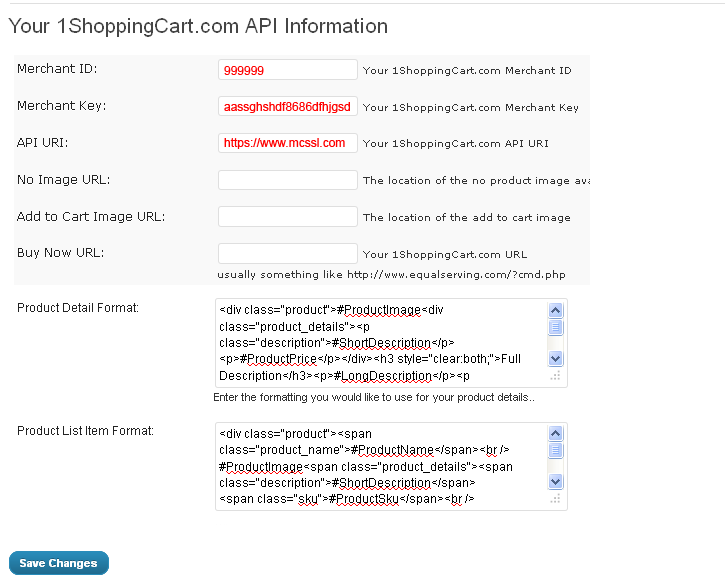
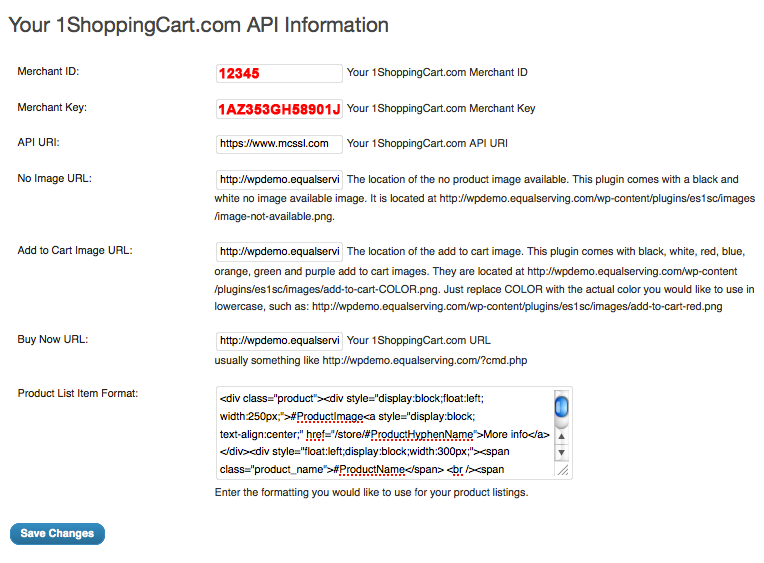
Fix typos and provide more help on settings page.
git-svn-id: https://plugins.svn.wordpress.org/wordpress-plugin-for-1shoppingcart/trunk@482700 b8457f37-d9ea-0310-8a92-e5e31aec5664

diff --git a/es1sc-free.php b/es1sc-free.php
@@ -3,7 +3,7 @@
 * Plugin Name: ES 1ShoppingCart
 * Plugin URI: http://www.equalserving.com/products-page/wordpress-plugin/free-wordpress-plugin-for-1shoppingcart/
 * Description: Using shortcodes, you can easily display product details from your 1ShoppingCart.com product catalog on pages or posts within your WordPress site. All that needs to be entered on the page or post is the title and the shortcut code [es1sc_prodlist]. The shortcode [es1sc_prodlist] without any additional arguments will display your entire active product catalog. You can limit the list to specific products by adding the argument prd_ids to the shortcode such as - [es1sc_prodlist prd_ids="8644152,8644145,8580674,8569588,8569508,8361626"].
-* Version: 0.1
+* Version: 0.2
 * Author: EqualServing.com
 * Author URI: http://www.equalserving.com/
 * Donate link: https://www.paypal.com/cgi-bin/webscr?cmd=_donations&business=H8KWRPTET2SK2&lc=US&item_name=Free%20Wordpress%20Plugin%20for%201ShoppingCart&currency_code=USD&bn=PP%2dDonationsBF%3abtn_donateCC_LG%2egif%3aNonHosted
@@ -14,7 +14,7 @@
 *
 */
 
-define( 'ES1SCVERSION', '0.1' );
+define( 'ES1SCVERSION', '0.2' );
 
 require(plugin_dir_path( __FILE__ ) .'include/OneShopAPI.php');
 $merchantId = get_option('es1sc_merchant_id');
@@ -72,6 +72,10 @@ function es1sc_plugin_options() {
 	echo '<div class="wrap">';
 	echo '<h2>Your 1ShoppingCart.com API Information</h2>';
 
+	echo '<div class="postbox-container" style="width:70%;">';
+	echo '   <div class="metabox-holder">';
+	echo '      <div class="meta-box-sortables">';
+
 	echo '<form name="updatesettings" id="updatesettings" method="post" action="'. $_SERVER['REQUEST_URI']. '">';
     settings_fields( 'es1sc-settings' );
 	echo '	<table class="form-table">';
@@ -96,13 +100,13 @@ function es1sc_plugin_options() {
 			"type" => "text"
 		),
 		array("name" => __('No Image URL','thematic'),
-			"desc" => __('The location of the no product image available','thematic'),
+			"desc" => __('The location of the no product image available. This plugin comes with a black and white no image available image. It is located at '.plugin_dir_url(__FILE__).'images/image-not-available.png.','thematic'),
 			"id" => "es1sc_no_image",
 			"std" => "999999",
 			"type" => "text"
 		),
 		array("name" => __('Add to Cart Image URL','thematic'),
-			"desc" => __('The location of the add to cart image','thematic'),
+			"desc" => __('The location of the add to cart image. This plugin comes with black, white, red, blue, orange, green and purple add to cart images. They are located at '.plugin_dir_url(__FILE__).'images/add-to-cart-COLOR.png. Just replace COLOR with the actual color you would like to use in lowercase, such as: '.plugin_dir_url(__FILE__).'images/add-to-cart-red.png','thematic'),
 			"id" => "es1sc_cart_image",
 			"std" => "999999",
 			"type" => "text"
@@ -233,6 +237,26 @@ function es1sc_plugin_options() {
 	echo '	</p>';
 	echo '	</form>';
 	echo '</div>';
+	echo '</div>';
+	echo '</div>';
+
+	echo '	<div class="postbox-container" style="width:29%;">';
+	echo '		<div class="metabox-holder">';
+	echo '			<div class="meta-box-sortables">';
+						plugin_like();
+						plugin_didyouknow();
+						plugin_help(); 
+	echo '				</div>';
+	echo '				<br/><br/><br/>';
+	echo '			</div>';
+	echo '		</div>';
+
+
+
+
+
+	echo '</div>';
+	
 }
 
 function register_es1scsettings() {
@@ -242,11 +266,11 @@ function register_es1scsettings() {
 	register_setting('es1sc-settings', 'es1sc_api_uri');
 	add_option('es1sc_merchant_id', '');
 	add_option('es1sc_merchant_key', '');
-	add_option('es1sc_api_uri', '');
-	add_option('es1sc_no_image','');
-	add_option('es1sc_cart_image','');
+	add_option('es1sc_api_uri', 'https://www.mcssl.com');
+	add_option('es1sc_no_image', plugin_dir_url(__FILE__) .'images/image-not-available.png');
+	add_option('es1sc_cart_image', plugin_dir_url(__FILE__) .'images/add-to-cart-black.png');
 	add_option('es1sc_buynow_url',get_option('siteurl').'/cmd.php');
-	add_option('es1sc_product_list_item_format','<div class="product"><span class="product_name">#ProductName</span><br />#ProductImage<span class="product_details"><span class="description">#ShortDescription</span><span class="sku">#ProductSku</span><br /><span class="price">#ProductPrice</span><br /><span class="buy-now">#BuyNow</span></span><div class="clear"> </div></div>');
+	add_option('es1sc_product_list_item_format','<div class="product"><div style="display:block;float:left;width:250px;">#ProductImage</div><div style="float:left;display:block;width:300px;"><span class="product_name">#ProductName</span> <br /><span class="product_details"><span class="description">#ShortDescription</span><span class="sku">#ProductSku</span><br /><span class="price">#ProductPrice</span><br /><span class="buy-now">#BuyNow</span></span><div style="clear:both;"> </div></div><div style="clear:both;"> </div></div>');
 }
 add_action('admin_init', 'register_es1scsettings');
 
@@ -313,11 +337,72 @@ function es1sc_product_list($atts) {
 
 			$ProductPrice = "";
 			if ($product_details->ProductInfo->UseSalePrice == "true") {
+				$ProductPrice .= '<span class="regular">Retail Price: <strike>$'.$product_details->ProductInfo->ProductPrice.'</strike></span> <span class="save-percent">Save: ';
+				$ProductPrice .= number_format(($product_details->ProductInfo->ProductPrice - $product_details->ProductInfo->SalePrice) / $product_details->ProductInfo->ProductPrice * 100, 0, '.', ',').'%';
+				$ProductPrice .= '</span>  <span class="save-dollar">Save $';
+				$ProductPrice .= number_format($product_details->ProductInfo->ProductPrice - $product_details->ProductInfo->SalePrice, 2, '.', ',');
+				$ProductPrice .= '</span> <span class="sale">Sale Price $'.number_format($product_details->ProductInfo->SalePrice, 2, '.', ',').'</span>';
+			} else {
+				$ProductPrice .= '<span class="regular">Regular Price: $'.$product_details->ProductInfo->ProductPrice.'</span>';
+			}
+			$BuyNow = '<a href="'.get_option('es1sc_buynow_url').'?pid='.$product_details->ProductInfo->VisibleId.'"><img src="'.get_option('es1sc_cart_image').'" alt="Add to Cart" /></a>';
+			$TitleHyphens = preg_replace("/[^a-zA-Z 0-9]+/", "", strtolower($product_details->ProductInfo->ProductName));
+			$TitleHyphens = str_replace(" ", "-", $TitleHyphens);
+			$aVariables = array('#ProductId','#ProductName', '#ProductImage', '#ShortDescription', '#LongDescription', '#ProductSku', '#ProductPrice','#BuyNow','#ProductHyphenName');
+			$aReplacements = array($prd_id,$product_details->ProductInfo->ProductName, $ImageUrl, wpautop($product_details->ProductInfo->ShortDescription), wpautop($product_details->ProductInfo->LongDescription), $product_details->ProductInfo->ProductSku, $ProductPrice, $BuyNow, $TitleHyphens);
+
+			$retVal .= str_replace($aVariables, $aReplacements, $display_format);
+		}
+	}
+
+	return $retVal;
+}
+
+function _es1sc_product_list($atts) {
+	global $shop;
+
+	$display_format = stripslashes(get_option('es1sc_product_list_item_format'));
+
+	$retVal = "";
+
+	extract(shortcode_atts(array("prd_ids" => 0), $atts));
+	if (isset($prd_ids) && $prd_ids != "") {
+		$prd_ids_temp = explode(",",$prd_ids);
+		$prd_ids = (object) $prd_ids_temp;
+	} else {
+		$limitoffset = 0;
+		$limitcount = 30;
+		$prd_ids = array();
+		while (!is_null($limitoffset)) {
+			$shop->_apiParameters = array("LimitCount" => $limitcount, "LimitOffset" => $limitoffset);
+			$products_xml = $shop->GetProductsList();
+			$products = @simplexml_load_string($products_xml) or die ("no file loaded");
+			//print_r($products);
+			foreach ($products->Products->Product as $prd_id) {
+				$prd_ids[] = $prd_id;
+			}
+			$limitoffset = $products->NextRecordSet->LimitOffset;
+		}
+	}
+	foreach ($prd_ids as $prd_id) {
+		$product_details_xml = $shop->GetProductById($prd_id);
+		$product_details = @simplexml_load_string($product_details_xml) or die ("no file loaded");
+
+		if ($product_details->ProductInfo->IsActive == "true") {
+			if ($product_details->ProductInfo->ImageUrl == "") {
+				$ImageUrlSrc = get_option('es1sc_no_image');
+			} else {
+				$ImageUrlSrc = "https://www.mcssl.com".$product_details->ProductInfo->ImageUrl;
+			}
+			$ImageUrl = '<img class="product_image" src="'. $ImageUrlSrc.'" alt="'.$product_details->ProductInfo->ProductName.'" />';
+
+			$ProductPrice = "";
+			if ($product_details->ProductInfo->UseSalePrice == "true") {
 				$ProductPrice .= '<strike>$'.$product_details->ProductInfo->ProductPrice.'</strike> Only $'.$product_details->ProductInfo->SalePrice;
 			} else {
 				$ProductPrice .= "$".$product_details->ProductInfo->ProductPrice;
 			}
-			$BuyNow = '<a href="'.get_option('es1sc_buynow_url').'?pid='.$product_details->ProductInfo->VisibleId.'"><img src="'.get_option('es1sc_cart_image').'" /></a>';
+			$BuyNow = '<a href="'.get_option('es1sc_buynow_url').'?pid='.$product_details->ProductInfo->VisibleId.'"><img src="'.get_option('es1sc_cart_image').'" alt="Add to Cart" /></a>';
 
 			$aVariables = array('#ProductName', '#ProductImage', '#ShortDescription', '#LongDescription', '#ProductSku', '#ProductPrice','#BuyNow');
 			$aReplacements = array($product_details->ProductInfo->ProductName, $ImageUrl, wpautop($product_details->ProductInfo->ShortDescription), wpautop($product_details->ProductInfo->LongDescription), $product_details->ProductInfo->ProductSku, $ProductPrice, $BuyNow);
@@ -330,4 +415,49 @@ function es1sc_product_list($atts) {
 }
 add_shortcode('es1sc_prodlist', 'es1sc_product_list');
 
+/**
+ * Create a potbox widget
+ */
+function postbox($id, $title, $content) {
+?>
+	<div id="<?php echo $id; ?>" class="postbox">
+		<div class="handlediv" title="Click to toggle"><br /></div>
+		<h3 class="hndle"><span><?php echo $title; ?></span></h3>
+		<div class="inside">
+			<?php echo $content; ?>
+		</div>
+	</div>
+<?php
+}	
+
+function plugin_like() {
+	$content = '<p>'.__('Why not do any or all of the following:','es1scplugin').'</p>';
+	$content .= '<ul>';
+	$content .= '<li>- <a href="http://www.equalserving.com/products-page/wordpress-plugin/free-wordpress-plugin-for-1shoppingcart/">'.__('Link to it so other folks can find out about it.','es1scplugin').'</a></li>';
+	$content .= '<li>- <a href="http://wordpress.org/extend/plugins/wordpress-plugin-for-1shoppingcart//">'.__('Give it a good rating on WordPress.org.','es1scplugin').'</a></li>';
+	$content .= '<li>- <a href="https://www.paypal.com/cgi-bin/webscr?cmd=_donations&business=H8KWRPTET2SK2&lc=US&item_name=Free%20Wordpress%20Plugin%20for%201ShoppingCart&currency_code=USD&bn=PP%2dDonationsBF%3abtn_donateCC_LG%2egif%3aNonHosted">'.__('Donate a token of your appreciation.','es1scplugin').'</a></li>';
+	$content .= '</ul>';
+	postbox('free-wordpress-plugin-for-1shoppingcart'.'like', 'Like this plugin?', $content);
+}	
+
+function plugin_didyouknow() {
+	$content = '<ul>';
+	$content .= '<li>- You can create a listing of products by categories to include on specific pages.  To do so, you would include the following  shortcode<br />[es1sc_prodlist prd_ids="XXXX01,XXXX02,XXXX03,XXXX04,XXXX05"]. where <em>XXXX99</em> is the 1ShoppingCart.com product ids separated by commas.</li>';
+	$content .= '<li>- This plugin comes with a number of "add to cart images."  The images are black, white, red, blue, orange, green and purple. These images are y are located at '.plugin_dir_url(__FILE__).'images/add-to-cart-COLOR.png. Just replace COLOR with the actual color you would like to use in lowercase, such as: '.plugin_dir_url(__FILE__).'images/add-to-cart-red.png.</li>';
+	$content .= '<li>- This plugin comes with a black and white no image available image. It is located at '.plugin_dir_url(__FILE__).'images/image-not-available.png.</li>';
+	$content .= '</ul>';
+	postbox('free-wordpress-plugin-for-1shoppingcart'.'-didyouknow', 'Did You Know?', $content);
+}
+
+
+function plugin_help() {
+	$content = '<p>'.__('Do you need help to get this plugin working?','es1scplugin').'</p>';
+	$content .= '<p>Please check following resources:</p>';
+	$content .= '<ul>';
+	$content .= '<li>- <a href="http://www.equalserving.com/products-page/wordpress-plugin/free-wordpress-plugin-for-1shoppingcart/" target="_blank">Visit the Free Wordpress Plugin For 1ShoppingCart.com</a></li>';
+	$content .= '<li>- <a href="http://www.equalserving.com/2011/12/free-wordpress-plugin-for-1shoppingcart-com/" target="_blank">Check the detailed installation instruction</a></li>';	
+	$content .= '<li>- <a href="http://wpdemo.equalserving.com/store/" target="_blank">See how the plugin works</a></li>';
+	$content .= '</ul>';
+	postbox('free-wordpress-plugin-for-1shoppingcart'.'-help', 'Help', $content);
+}		
 ?>
